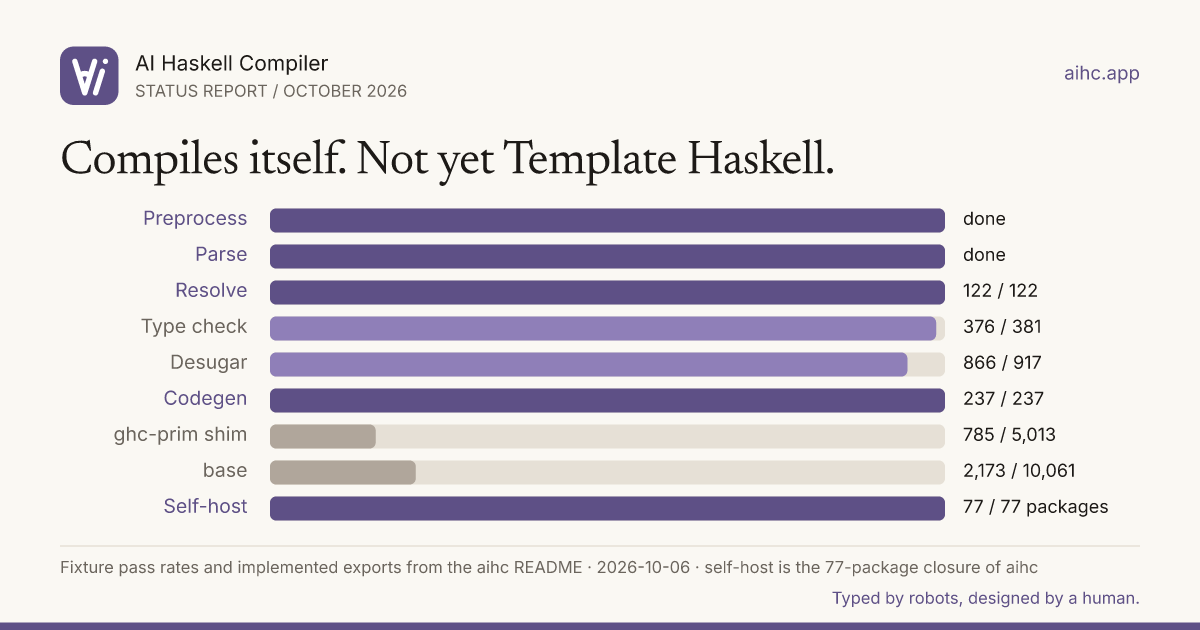
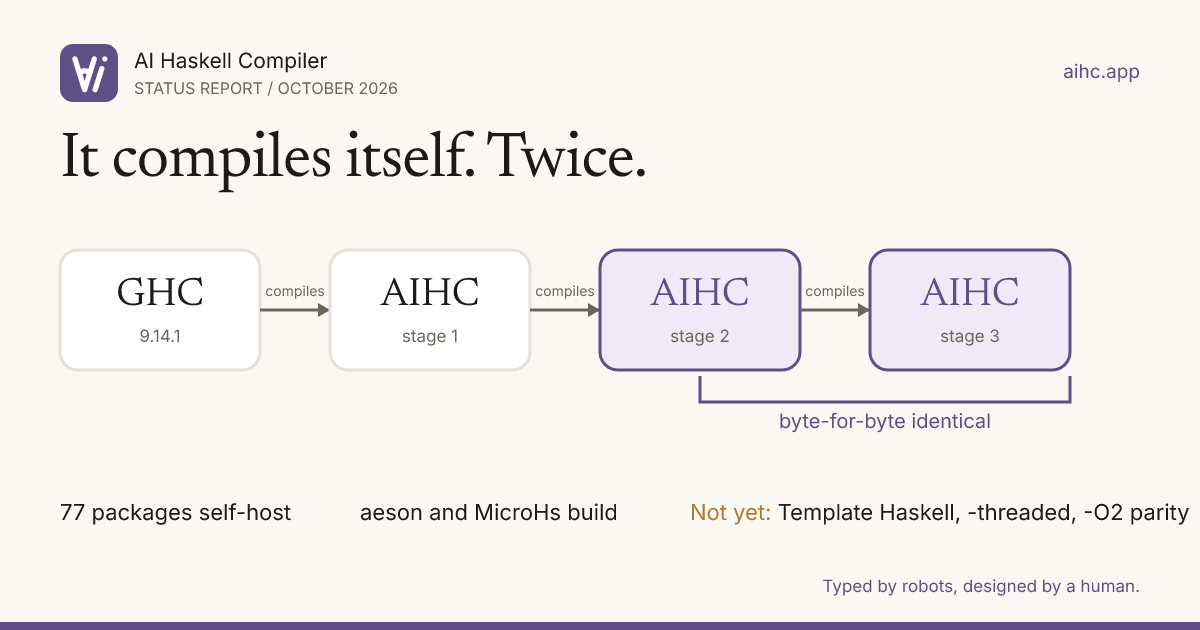
feat: replace status report card with the bootstrap chain
The nine-row pipeline chart did not read at feed size and did not
illustrate the post's headline. The new card shows the three-stage
bootstrap with byte-identical stages 2 and 3, plus a short line on
what does not work yet.

diff --git a/src/content/posts/2026-10-08-aihc-status-october-2026.md b/src/content/posts/2026-10-08-aihc-status-october-2026.md
@@ -7,7 +7,7 @@ authors:
   - Lemmih
 draft: false
 image: "/images/aihc-status-2026-10-card.png"
-imageAlt: "AIHC pipeline status, October 2026. Preprocess, parse, resolve, type-check and codegen are complete or nearly complete. ghc-prim and base shims are at 16% and 22% of exports. All 77 self-hosting packages install."
+imageAlt: "It compiles itself, twice. GHC compiles AIHC stage 1, which compiles stage 2, which compiles stage 3. Stages 2 and 3 are byte-for-byte identical. 77 packages self-host, aeson and MicroHs build. Not yet: Template Haskell, -threaded, -O2 parity with GHC."
 imageWidth: 1200
 imageHeight: 630
 ---
